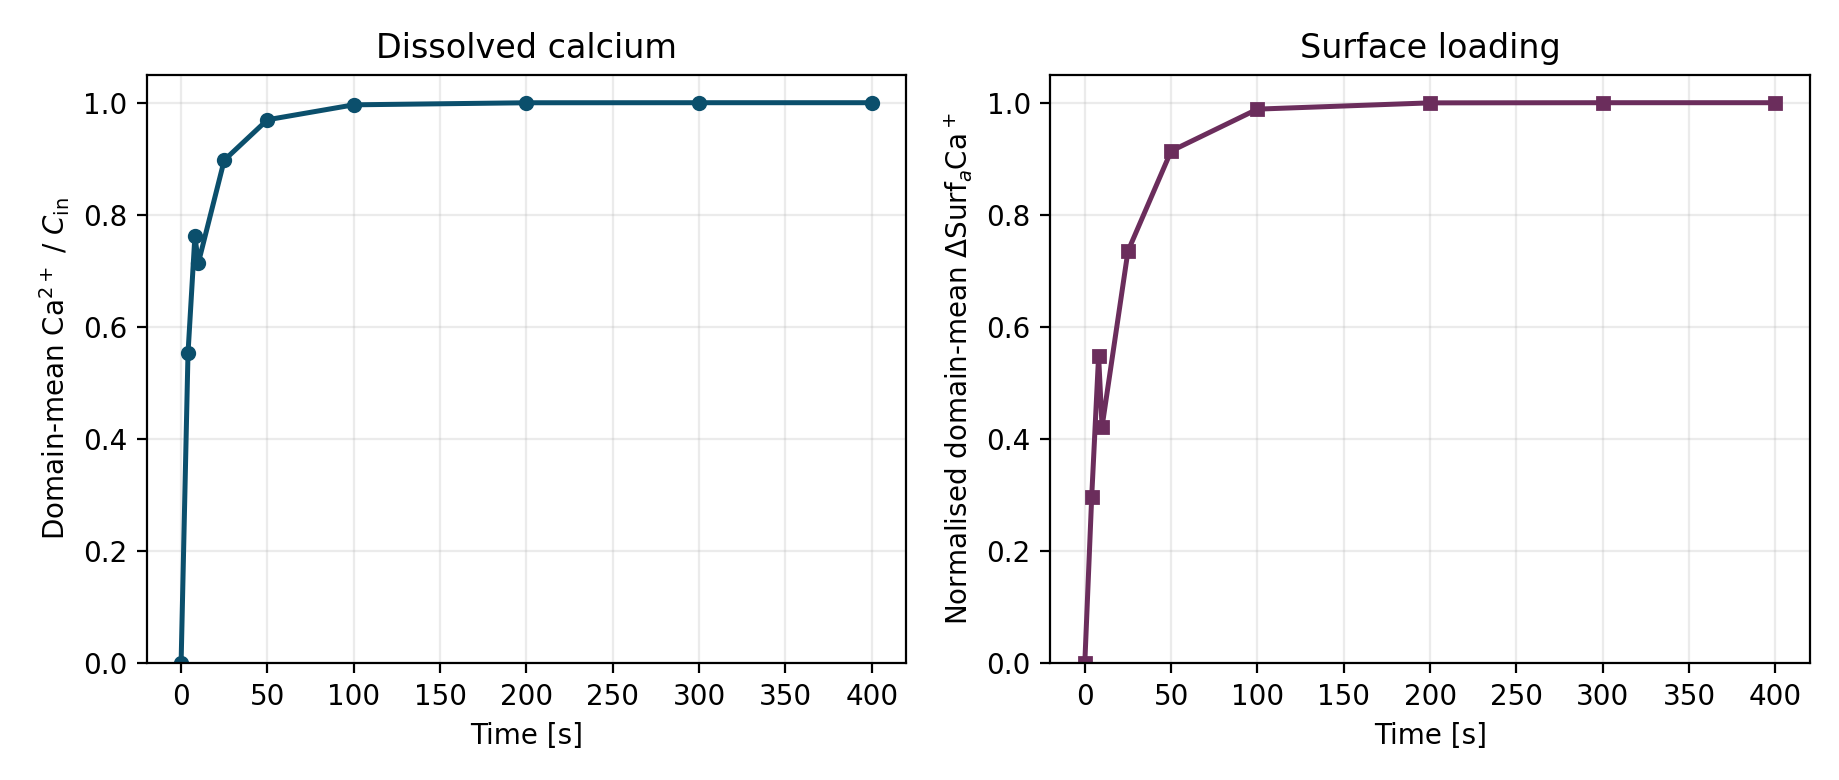
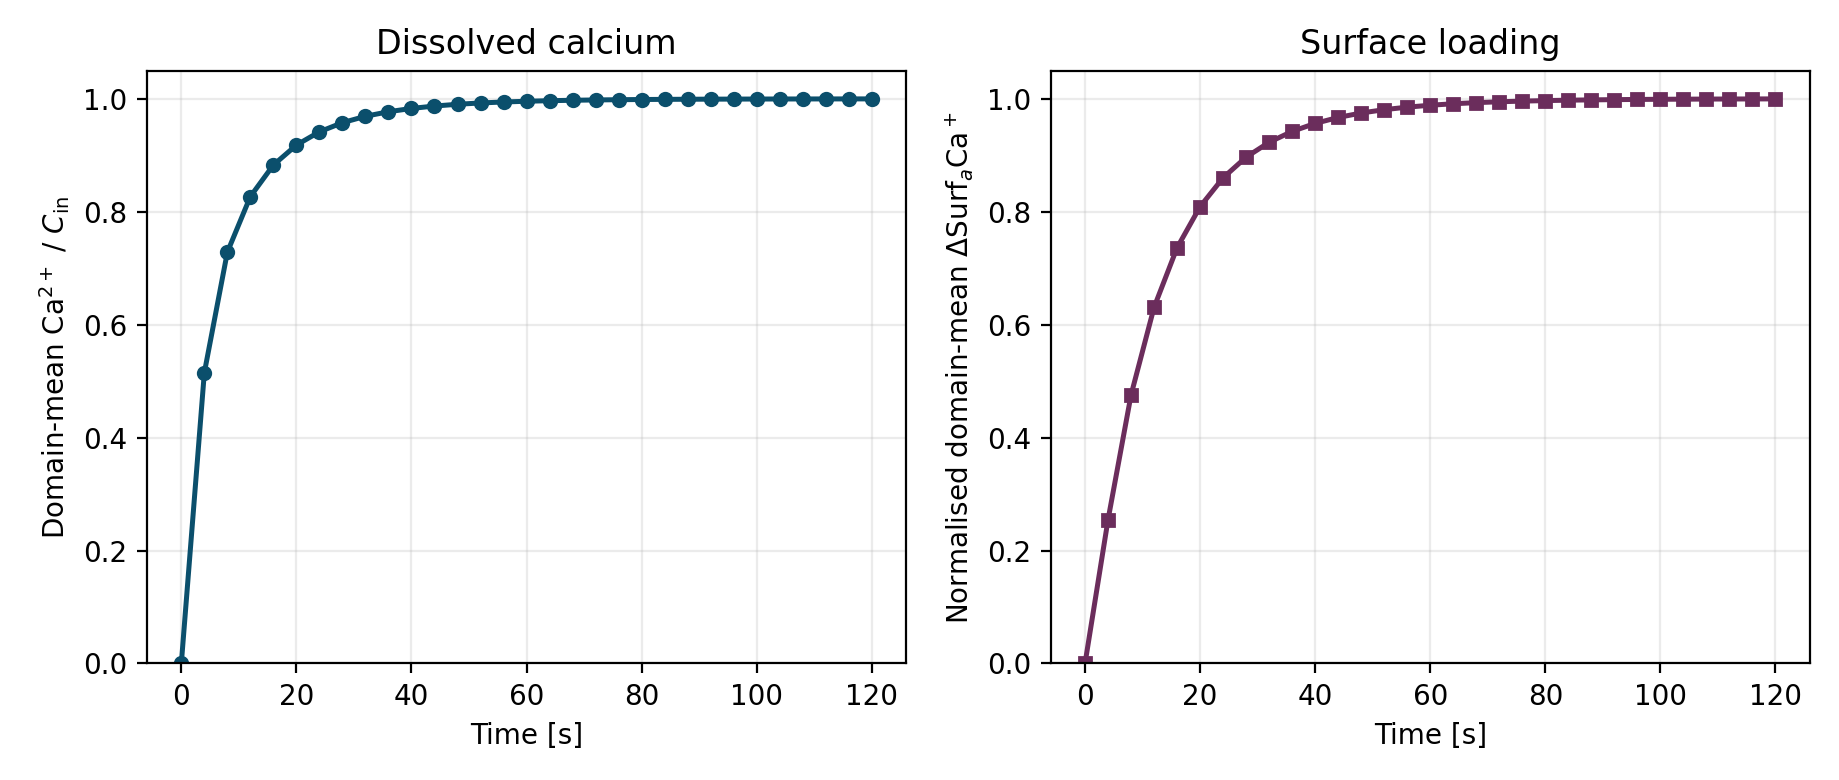
fix: rerun Kelvin case from scratch to remove non-monotonic jump
Previous fig07 mixed data from incompatible runs (purgeWrite=0 leftover
time directories); stale t=4,8,10,25,50,100-400 dirs from older runs with
different writeInterval/deltaT settings caused non-physical drops between
t=8 and t=10.

Cleaned all stale processor time directories, re-ran initCaseReactiveTransport,
then reran reactiveScalarTransportDBSFoam with TOTAL_TIME=120 WRITE_TIMESTEP=4
RUN_TIMESTEP=2, producing 31 monotonic time points (t=0,4,8,...,120).
Regenerated fig07 from clean data.

Updated 06_test_cases.tex caption and body text to reference t=0-120s
and writeInterval=4s. Updated manifest to reflect new time coverage.

diff --git a/sections/06_test_cases.tex b/sections/06_test_cases.tex
@@ -134,7 +134,7 @@ negligible startup equilibrium floor retained by the PHREEQC template.
 Figure~\ref{fig:3DKelvin} shows the geometry, dissolved-calcium, and
 incremental surface-loading panels at $t = 4$.
 Figure~\ref{fig:KelvinTemporal} shows the evolution of the domain-mean
-dissolved and adsorbed calcium over the full simulation to $t = 400$~s.
+dissolved and adsorbed calcium over the simulation to $t = 120$~s.
 The domain-mean Ca$^{2+}$ rises monotonically as calcium-bearing fluid
 displaces the initial calcium-free condition, while the normalised incremental
 surface loading tracks the aqueous saturation with a lag that reflects the
@@ -154,7 +154,7 @@ finite surface uptake kinetics resolved by the PHREEQC equilibrium step.
     \centering
     \includegraphics[width=0.9\linewidth]{figures/png/fig07_kelvin_temporal.png}
     \caption{Temporal evolution of domain-mean fields for the Kelvin case
-    (10 saved time points, $t = 0$--$400$~s).
+    ($t = 0$--$120$~s, writeInterval $= 4$~s).
     Left: domain-mean dissolved Ca$^{2+}$ normalised by the inlet concentration
     $C_{\mathrm{in}}$. Right: normalised incremental domain-mean adsorbed calcium
     (\mbox{$\Delta$\texttt{Surf\_aCa+}}), defined relative to its value at $t = 0$.}

diff --git a/figures/png/manifest.md b/figures/png/manifest.md
@@ -102,7 +102,7 @@
 - content:
   - domain-mean Ca2+/C_in vs time (left panel)
   - normalised incremental domain-mean Surf_aCa+ vs time (right panel)
-  - 10 time points: t = 0, 4, 8, 10, 25, 50, 100, 200, 300, 400
+  - 31 time points: t = 0, 4, 8, ..., 120 (writeInterval=4, endTime=120)
 - source case:
[1 lines of base64/hex data omitted]
 - renderer:
